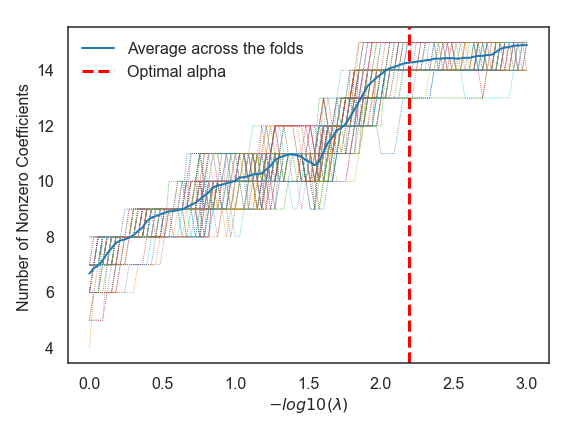
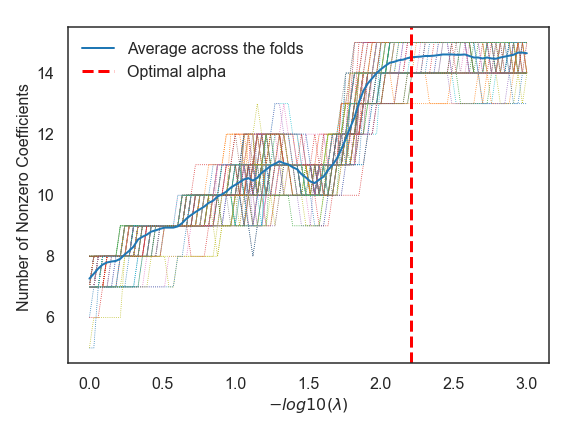
change graphs

diff --git a/Ebinding_v3.py b/Ebinding_v3.py
@@ -96,13 +96,13 @@ nDescriptors = X.shape[1]
 
 #%% Preparation before regression
 # Train test split, save 10% of data point to the test set
-X_train, X_test, y_train, y_test = train_test_split(X, y, test_size=0.1, random_state=0)
+X_train, X_test, y_train, y_test = train_test_split(X, y, test_size=0.1, random_state=5)
                        
 # The alpha grid used for plotting path
 alphas_grid = np.logspace(0, -3, 100)
 
 # Cross-validation scheme                                  
-rkf = RepeatedKFold(n_splits = 10, n_repeats = 10 , random_state = 0)
+rkf = RepeatedKFold(n_splits = 10, n_repeats = 10 , random_state = 5)
 
 
 # Explicitly take out the train/test set

diff --git a/sac_stability_v3.py b/sac_stability_v3.py
@@ -386,7 +386,7 @@ if not os.path.exists(output_dir): os.makedirs(output_dir)
 
 fig, ax = plt.subplots(figsize=(7, 7))
 
-ax.scatter(y, enet05.predict(X), label='Elastic Net ($R^2$ = 0.965)', facecolors='r', alpha = 0.7, s  = 60)
+ax.scatter(y, lasso_cv.predict(X), label='LASSO ($R^2$ = 0.973)', facecolors='r', alpha = 0.7, s  = 60)
 ax.scatter(y, USR(X_USR), label='USM ($R^2$ = 0.966)', facecolors='b', marker="o", alpha = 0.7, s  = 60)
 ax.plot([y.min(), y.max()], [y.min(), y.max()], 'k--', lw=2)
 ax.set_xticks(np.arange(0,4,0.5))
